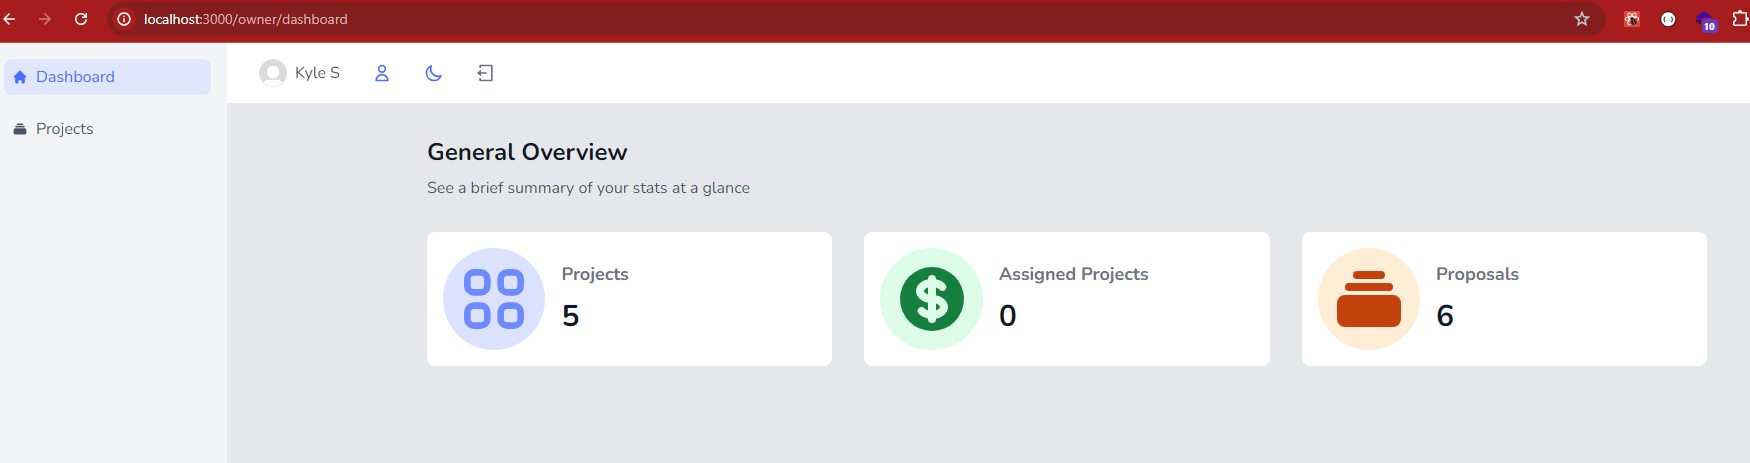
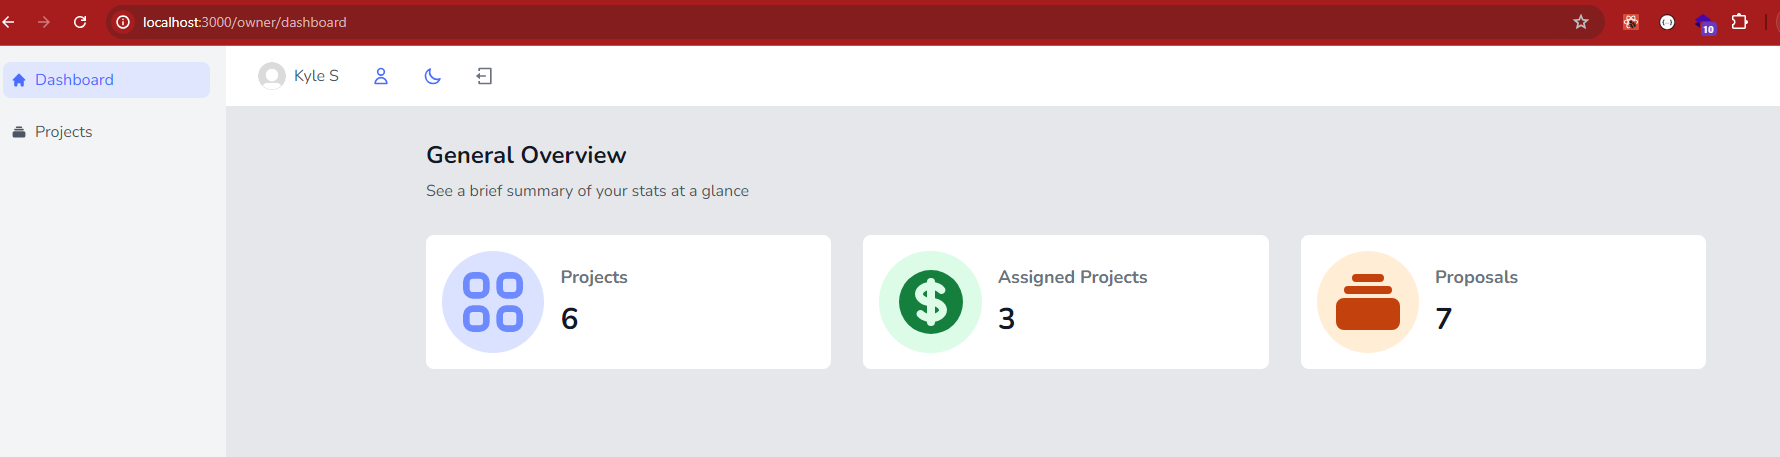
some changes

diff --git a/frontend/src/pages/Home.jsx b/frontend/src/pages/Home.jsx
@@ -113,7 +113,7 @@ const Home = () => {
 							employers to post job listings and find the perfect candidates for
 							their projects. Freelancers can create detailed profiles, browse
 							job opportunities, and submit proposals, all in one secure and
-							user-friendly environment. At FreelanceHub, we believe in
+							user-friendly environment. At CodeLance, we believe in
 							fostering a dynamic and supportive freelance community where both
 							employers and freelancers can thrive.
 						</p>
@@ -124,7 +124,7 @@ const Home = () => {
 							communication, and a hassle-free experience. Whether you are an
 							employer looking to bring your project to life with the right
 							talent or a freelancer seeking exciting opportunities,
-							FreelanceHub is here to support you every step of the way. Join us
+							CodeLance is here to support you every step of the way. Join us
 							today and discover how we can help you achieve your professional
 							goals.
 						</p>

diff --git a/frontend/src/pages/ThankYou.jsx b/frontend/src/pages/ThankYou.jsx
@@ -2,8 +2,8 @@ const ThankYou = () => {
 	return (
 		<div className="min-h-screen bg-gray-50">
 			<header className="bg-primary-900 text-white text-center py-20">
-				<h1 className="text-4xl font-bold mb-4">
-					ThankYou for Registration On FreelancerHub
+			<h1 className="text-4xl font-bold mb-4 mt-12">
+					ThankYou for Registration On CodeLance
 				</h1>
 				<p className="text-lg mb-8">
 					Thank you for your patience. Please wait until your account is

diff --git a/frontend/src/features/owner/Stats.jsx b/frontend/src/features/owner/Stats.jsx
@@ -7,7 +7,7 @@ import Stat from "../../ui/Stat";
 
 const Stats = ({ projects }) => {
 	const numOfProjects = projects.length;
-	const numOfAcceptedProjects = projects.filter((p) => p.status === 2).length;
+	const numOfAcceptedProjects = projects.filter((p) => p.freelancer !== null).length;
 	const numOfProposals = projects.reduce(
 		(acc, curr) => curr.proposals.length + acc,
 		0

diff --git a/backend/app/http/controllers/userAuth.controller.js b/backend/app/http/controllers/userAuth.controller.js
@@ -301,7 +301,7 @@ async function checkOtp(req, res) {
   await setAccessToken(res, user);
   await setRefreshToken(res, user);
 
-  let WELLCOME_MESSAGE = `Code confirmed, welcome to Freelance Hub.`;
+  let WELLCOME_MESSAGE = `Code confirmed, welcome to CodeLance.`;
   if (!user.isActive)
       WELLCOME_MESSAGE = `Confirmed, Fill in details.`;
 
